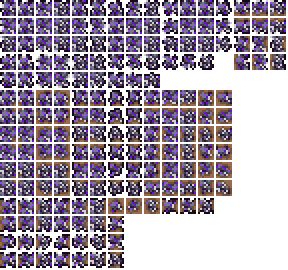
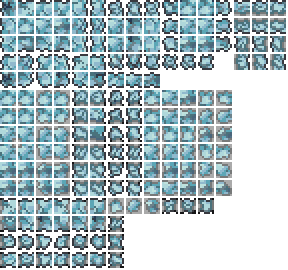
More bug fixes and adjusted generation amount
Fixed a bug with EoW generating a lot of times and relogging also generating ore again. On medium worlds there should be arond 2k tiles maybe more maybe less depending on the generation.

diff --git a/Content/Tiles/AncientIceOreTile.cs b/Content/Tiles/AncientIceOreTile.cs
@@ -10,10 +10,12 @@ using System.Text;
 using System.Threading.Tasks;
 using Terraria;
 using Terraria.Chat;
+using Terraria.DataStructures;
 using Terraria.ID;
 using Terraria.IO;
 using Terraria.Localization;
 using Terraria.ModLoader;
+using Terraria.ModLoader.IO;
 using Terraria.WorldBuilding;
 
 namespace ForgottenFacets.Content.Tiles
@@ -24,12 +26,19 @@ namespace ForgottenFacets.Content.Tiles
 
         public override void SetStaticDefaults()
         {
-            this.SetUpOre(ModContent.ItemType<AncientIceOre>(), Color.HotPink, "Ancient Ice");
+            this.SetUpOre(ModContent.ItemType<AncientIceOre>(), Color.Gray, "Ancient Ice");
             Main.tileOreFinderPriority[Type] = 410;
             DustType = DustID.Silver;
-            MineResist = 2f;
+            MineResist = 2.5f;
 
             MinPick = 65;//demonite and crimtane
+            Main.tileLighted[Type] = true;
+        }
+        public override void ModifyLight(int i, int j, ref float r, ref float g, ref float b)
+        {
+            r = 0.09f;
+            b = 0.09f;
+            g = 0.09f;
         }
 
     }
@@ -45,6 +54,7 @@ namespace ForgottenFacets.Content.Tiles
 
         public static void SpawnOre()
         {
+
             if (Main.netMode == NetmodeID.SinglePlayer || Main.netMode == NetmodeID.Server)
             {
                 ChatHelper.BroadcastChatMessage(AncientIceOreText.ToNetworkText(), new Color(130, 200, 255));
@@ -53,16 +63,15 @@ namespace ForgottenFacets.Content.Tiles
             for (int i = 0; i < (int)(Main.maxTilesX * Main.maxTilesY * 0.001); i++)
             {
                 int x = Main.rand.Next(0, Main.maxTilesX);
-                int y = Main.rand.Next((int)Main.worldSurface, Main.maxTilesY - 200);
+                int y = Main.rand.Next((int)Main.worldSurface + 450, Main.maxTilesY);
 
                 Tile tile = Framing.GetTileSafely(x, y);
 
-                if (tile.HasTile && tile.TileType == TileID.IceBlock)
+                if ((tile.HasTile && tile.TileType == TileID.IceBlock) && Main.rand.NextBool(2))
                 {
-                    WorldGen.TileRunner(x, y, Main.rand.Next(5, 12), Main.rand.Next(5, 10), ModContent.TileType<AncientIceOreTile>());
+                    WorldGen.TileRunner(x, y, Main.rand.Next(6, 8), Main.rand.Next(4, 7), ModContent.TileType<AncientIceOreTile>());
                 }
             }
-
             if (Main.netMode == NetmodeID.Server)
             {
                 NetMessage.SendData(MessageID.WorldData);
@@ -70,16 +79,19 @@ namespace ForgottenFacets.Content.Tiles
         }
     }
 
-    public class ConditionForSpawning : GlobalNPC
+    public class AncientIceWorldSystem : ModSystem
     {
-        public override void OnKill(NPC npc)
+        public bool AncientIceGenerated = false;
+
+        public override void PostUpdateEverything()
         {
-            if (npc.type == NPCID.EaterofWorldsHead || npc.type == NPCID.BrainofCthulhu)
+            if (!AncientIceGenerated && NPC.downedBoss2)
             {
                 AncientIceOreSystem.SpawnOre();
+                AncientIceGenerated = true;
             }
         }
     }
 
-
+   
 }

diff --git a/Content/Items/Armor/AncientIce/AncientIceHelmet.cs b/Content/Items/Armor/AncientIce/AncientIceHelmet.cs
@@ -1,4 +1,5 @@
 using ForgottenFacets.Content.Dusts;
+using ForgottenFacets.Content.Materials;
 using ForgottenFacets.Content.Projectiles;
 using ForgottenFacets.Core;
 using Microsoft.Xna.Framework;
@@ -46,7 +47,7 @@ namespace ForgottenFacets.Content.Items.Armor.AncientIce
             if (modPlayer.cooldown <= 0 && Main.rand.NextBool(20))
             {
                 Dust.NewDustPerfect(player.Center + Main.rand.NextVector2Circular(player.width / 2, player.height / 2), ModContent.DustType<GlowDust>(),
-                    -Vector2.UnitY * 0.66f, 0, new Color(149, 71, 234), Main.rand.NextFloat(0.5f, 1f)).noGravity = true;
+                    -Vector2.UnitY * 0.66f, 0, Color.Cyan, Main.rand.NextFloat(0.5f, 1f)).noGravity = true;
             }
         }
 
@@ -56,6 +57,15 @@ namespace ForgottenFacets.Content.Items.Armor.AncientIce
 
             if (modPlayer.fullSet && modPlayer.cooldown <= 0)
                 player.armorEffectDrawShadow = true;
+        }
+
+        public override void AddRecipes()
+        {
+            CreateRecipe()
+                .AddIngredient(ModContent.ItemType<AncientIceBar>(), 12)
+                .AddIngredient(ItemID.Sapphire, 3)
+                .AddTile(TileID.Anvils)
+                .Register();
         }
 
     }
@@ -77,7 +87,7 @@ namespace ForgottenFacets.Content.Items.Armor.AncientIce
                 {
                     for (int i = 0; i < 15; i++)
                     {
-                        Dust.NewDustPerfect(Player.Center + Main.rand.NextVector2Circular(30f, 30f), ModContent.DustType<SparkleDust>(), -Vector2.UnitY, 0, Color.White, 0.15f);
+                        Dust.NewDustPerfect(Player.Center + Main.rand.NextVector2Circular(30f, 30f), ModContent.DustType<SparkleDust>(), -Vector2.UnitY, 0, Color.LightCyan, 0.15f);
                     }
 
                     SoundEngine.PlaySound(SoundID.MaxMana, Player.Center);
@@ -116,7 +126,7 @@ namespace ForgottenFacets.Content.Items.Armor.AncientIce
         private void DoCritEffect(NPC target)
         {
             if (Main.myPlayer == Player.whoAmI)//multiplayer compentability
-                Projectile.NewProjectile(Player.GetSource_OnHit(target), target.Center, Vector2.Zero, ModContent.ProjectileType<AncientIceArmorProjectile>(), 30, 2f, Player.whoAmI, 50);
+                Projectile.NewProjectile(Player.GetSource_OnHit(target), target.Center, Vector2.Zero, ModContent.ProjectileType<AncientIceArmorProjectile>(), 30 + Player.HeldItem.damage, 2f, Player.whoAmI, 50);
 
 
             SoundEngine.PlaySound(SoundID.Item120 with { PitchRange = (0.8f, 1.2f) }, target.Center);

diff --git a/Content/Materials/AncientIceBar.cs b/Content/Materials/AncientIceBar.cs
@@ -62,15 +62,15 @@ namespace ForgottenFacets.Content.Materials
         {
             float sin = (float)Math.Abs(Math.Sin(Main.GlobalTimeWrappedHourly)) * 0.5f;
 
-            Lighting.AddLight(Item.Center, new Color(149, 71, 234).ToVector3() * sin);
+            Lighting.AddLight(Item.Center, Color.Lerp(new Color(71, 143, 234), new Color(0, 64, 145), 0.5f).ToVector3() * sin);
 
             if (Main.rand.NextBool(30))
                 Dust.NewDustPerfect(Item.Center + Main.rand.NextVector2Circular(20f, 20f), ModContent.DustType<GlowDust>(),
-                    -Vector2.UnitY, 0, new Color(149, 71, 234), Main.rand.NextFloat(0.3f, 0.5f));
+                    -Vector2.UnitY, 0, Color.Lerp(new Color(71, 143, 234), new Color(0, 64, 145), 0.5f), Main.rand.NextFloat(0.3f, 0.5f));
 
             if (Main.rand.NextBool(30))
                 Dust.NewDustPerfect(Item.Center + Main.rand.NextVector2Circular(20f, 20f),
-                    ModContent.DustType<SparkleDust>(), -Vector2.UnitY, 0, new Color(149, 71, 234), Main.rand.NextFloat(0.3f, 0.5f));
+                    ModContent.DustType<SparkleDust>(), -Vector2.UnitY, 0, Color.Lerp(new Color(71, 143, 234), new Color(0, 64, 145), 0.5f), Main.rand.NextFloat(0.3f, 0.5f));
 
 
         }

diff --git a/Content/Materials/AncientIceOre.cs b/Content/Materials/AncientIceOre.cs
@@ -54,15 +54,15 @@ namespace ForgottenFacets.Content.Materials
         {
             float sin = (float)Math.Abs(Math.Sin(Main.GlobalTimeWrappedHourly)) * 0.5f;
 
-            Lighting.AddLight(Item.Center, new Color(149, 71, 234).ToVector3() * sin);
+            Lighting.AddLight(Item.Center, Color.Lerp(new Color(71,143,234), new Color(0, 64, 145), 0.5f).ToVector3() * sin);
 
             if (Main.rand.NextBool(30))
                 Dust.NewDustPerfect(Item.Center + Main.rand.NextVector2Circular(20f,20f), ModContent.DustType<GlowDust>(), 
-                    -Vector2.UnitY, 0, new Color(149, 71, 234), Main.rand.NextFloat(0.3f, 0.5f));
+                    -Vector2.UnitY, 0, Color.Lerp(new Color(71, 143, 234), new Color(0, 64, 145), 0.5f), Main.rand.NextFloat(0.3f, 0.5f));
 
             if (Main.rand.NextBool(30))
                 Dust.NewDustPerfect(Item.Center + Main.rand.NextVector2Circular(20f, 20f),
-                    ModContent.DustType<SparkleDust>(), -Vector2.UnitY, 0, new Color(149, 71, 234), Main.rand.NextFloat(0.3f, 0.5f));
+                    ModContent.DustType<SparkleDust>(), -Vector2.UnitY, 0, Color.Lerp(new Color(71, 143, 234), new Color(0, 64, 145), 0.5f), Main.rand.NextFloat(0.3f, 0.5f));
 
 
         }

diff --git a/Content/Items/Armor/AncientIce/AncientIceChestpiece.cs b/Content/Items/Armor/AncientIce/AncientIceChestpiece.cs
@@ -32,8 +32,8 @@ namespace ForgottenFacets.Content.Items.Armor.AncientIce
         public override void AddRecipes()
         {
             CreateRecipe()
-                .AddIngredient(ModContent.ItemType<AncientIceBar>(), 15)
-                .AddIngredient(ItemID.Amethyst, 3)
+                .AddIngredient(ModContent.ItemType<AncientIceBar>(), 20)
+                .AddIngredient(ItemID.Sapphire, 3)
                 .AddTile(TileID.Anvils)
                 .Register();
         }

diff --git a/Content/Items/Armor/AncientIce/AncientIceLeggings.cs b/Content/Items/Armor/AncientIce/AncientIceLeggings.cs
@@ -31,8 +31,8 @@ namespace ForgottenFacets.Content.Items.Armor.AncientIce
         public override void AddRecipes()
         {
             CreateRecipe()
-                .AddIngredient(ModContent.ItemType<AncientIceBar>(), 12)
-                .AddIngredient(ItemID.Amethyst, 3)
+                .AddIngredient(ModContent.ItemType<AncientIceBar>(), 18)
+                .AddIngredient(ItemID.Sapphire, 3)
                 .AddTile(TileID.Anvils)
                 .Register();
         }
